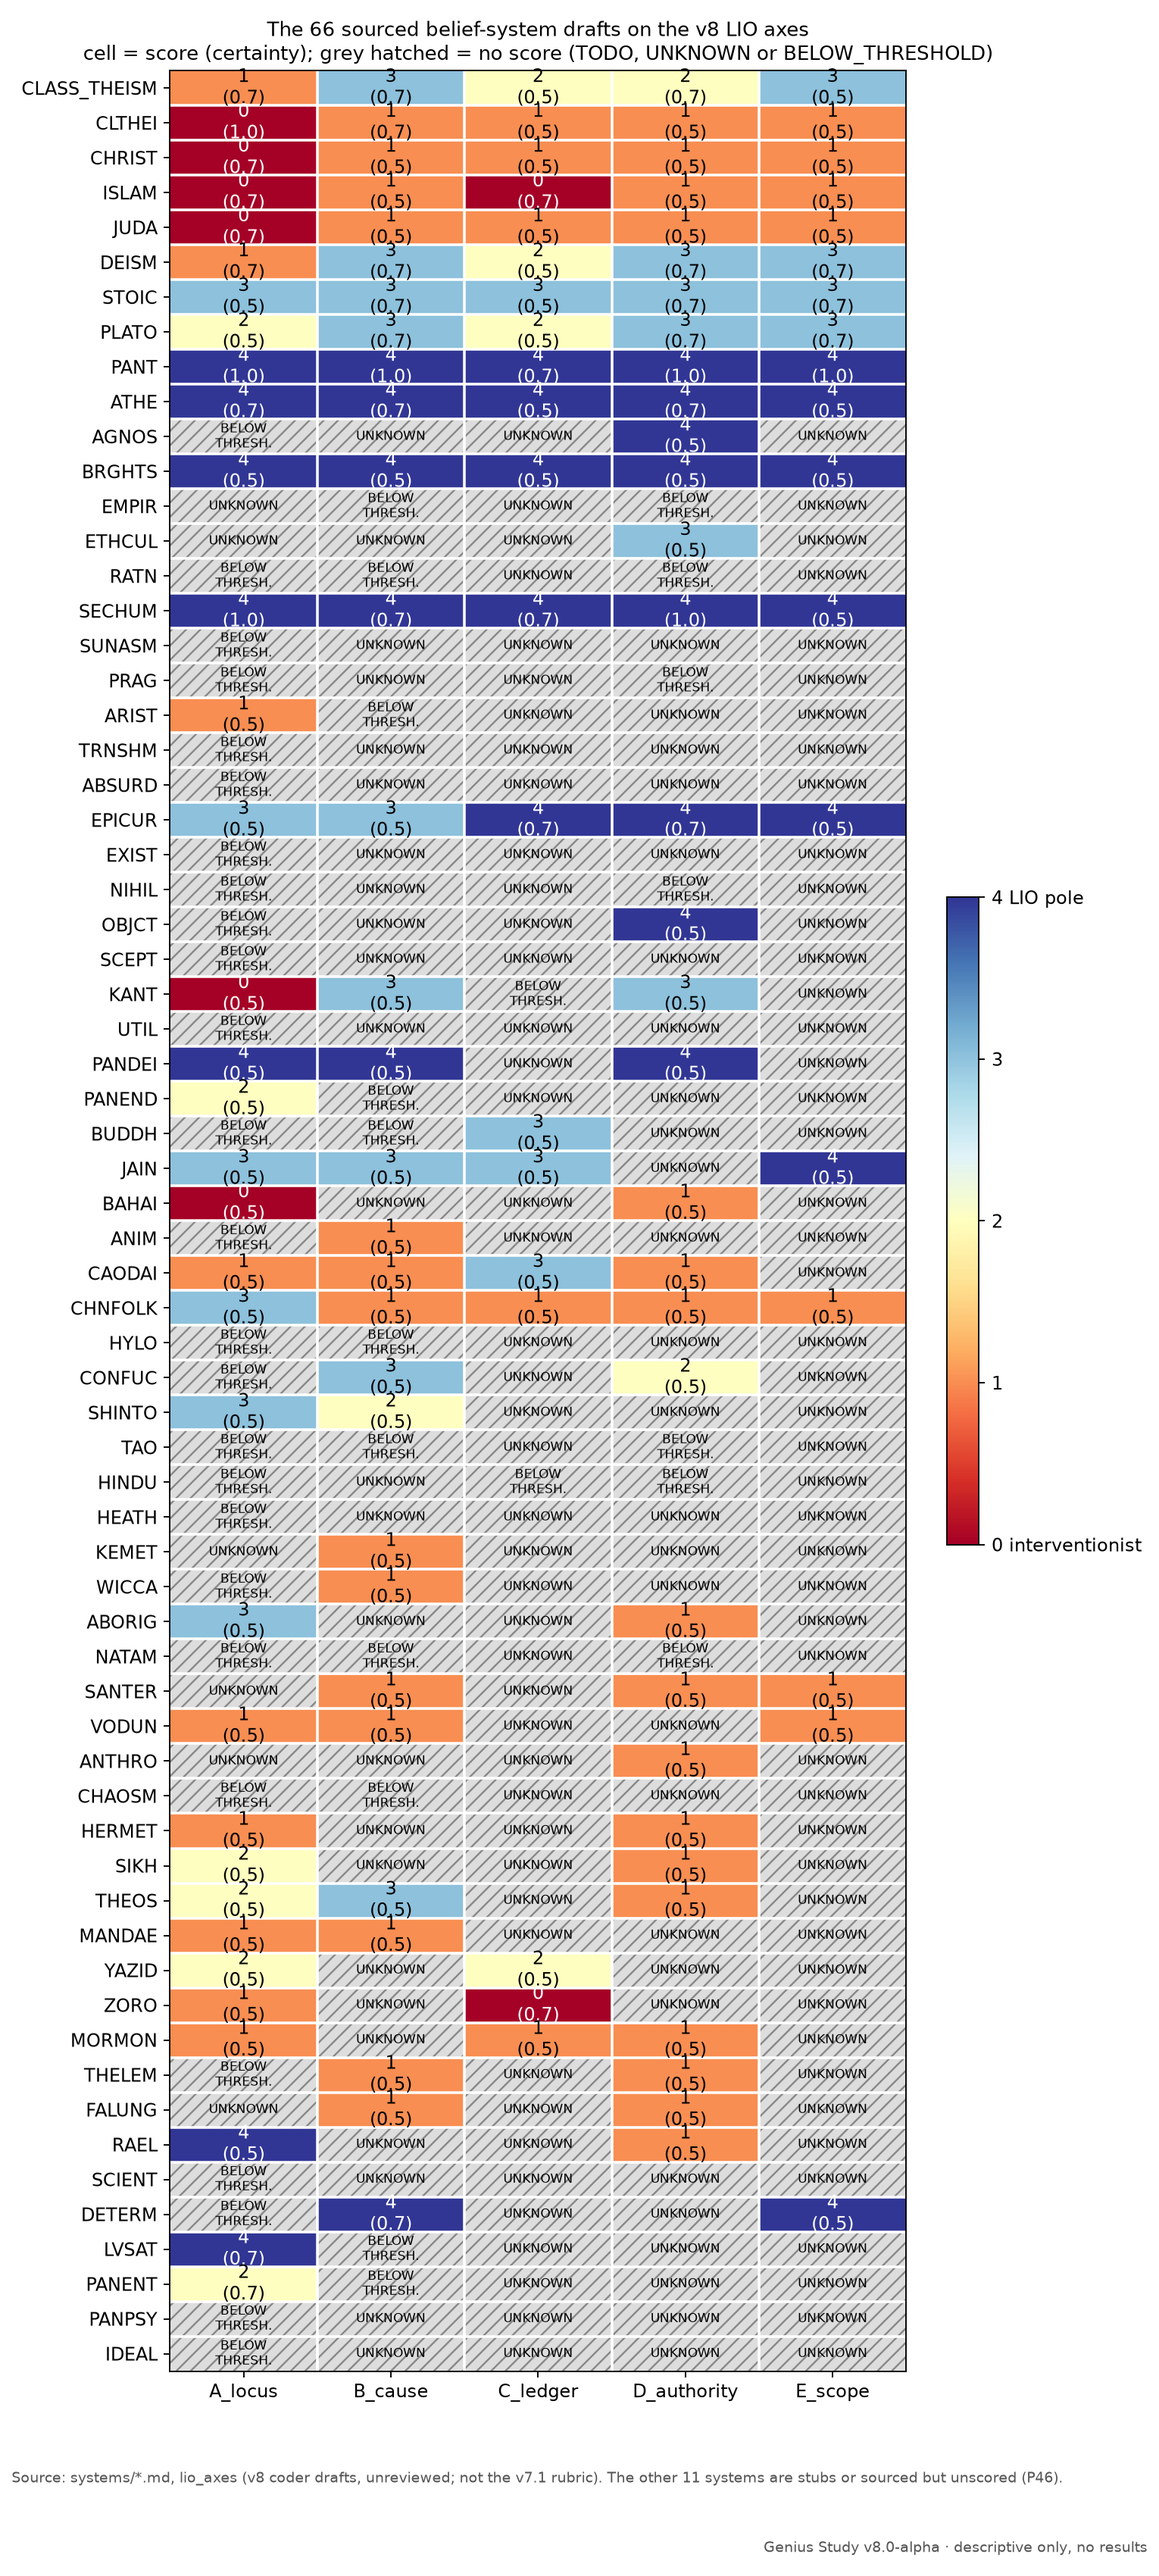
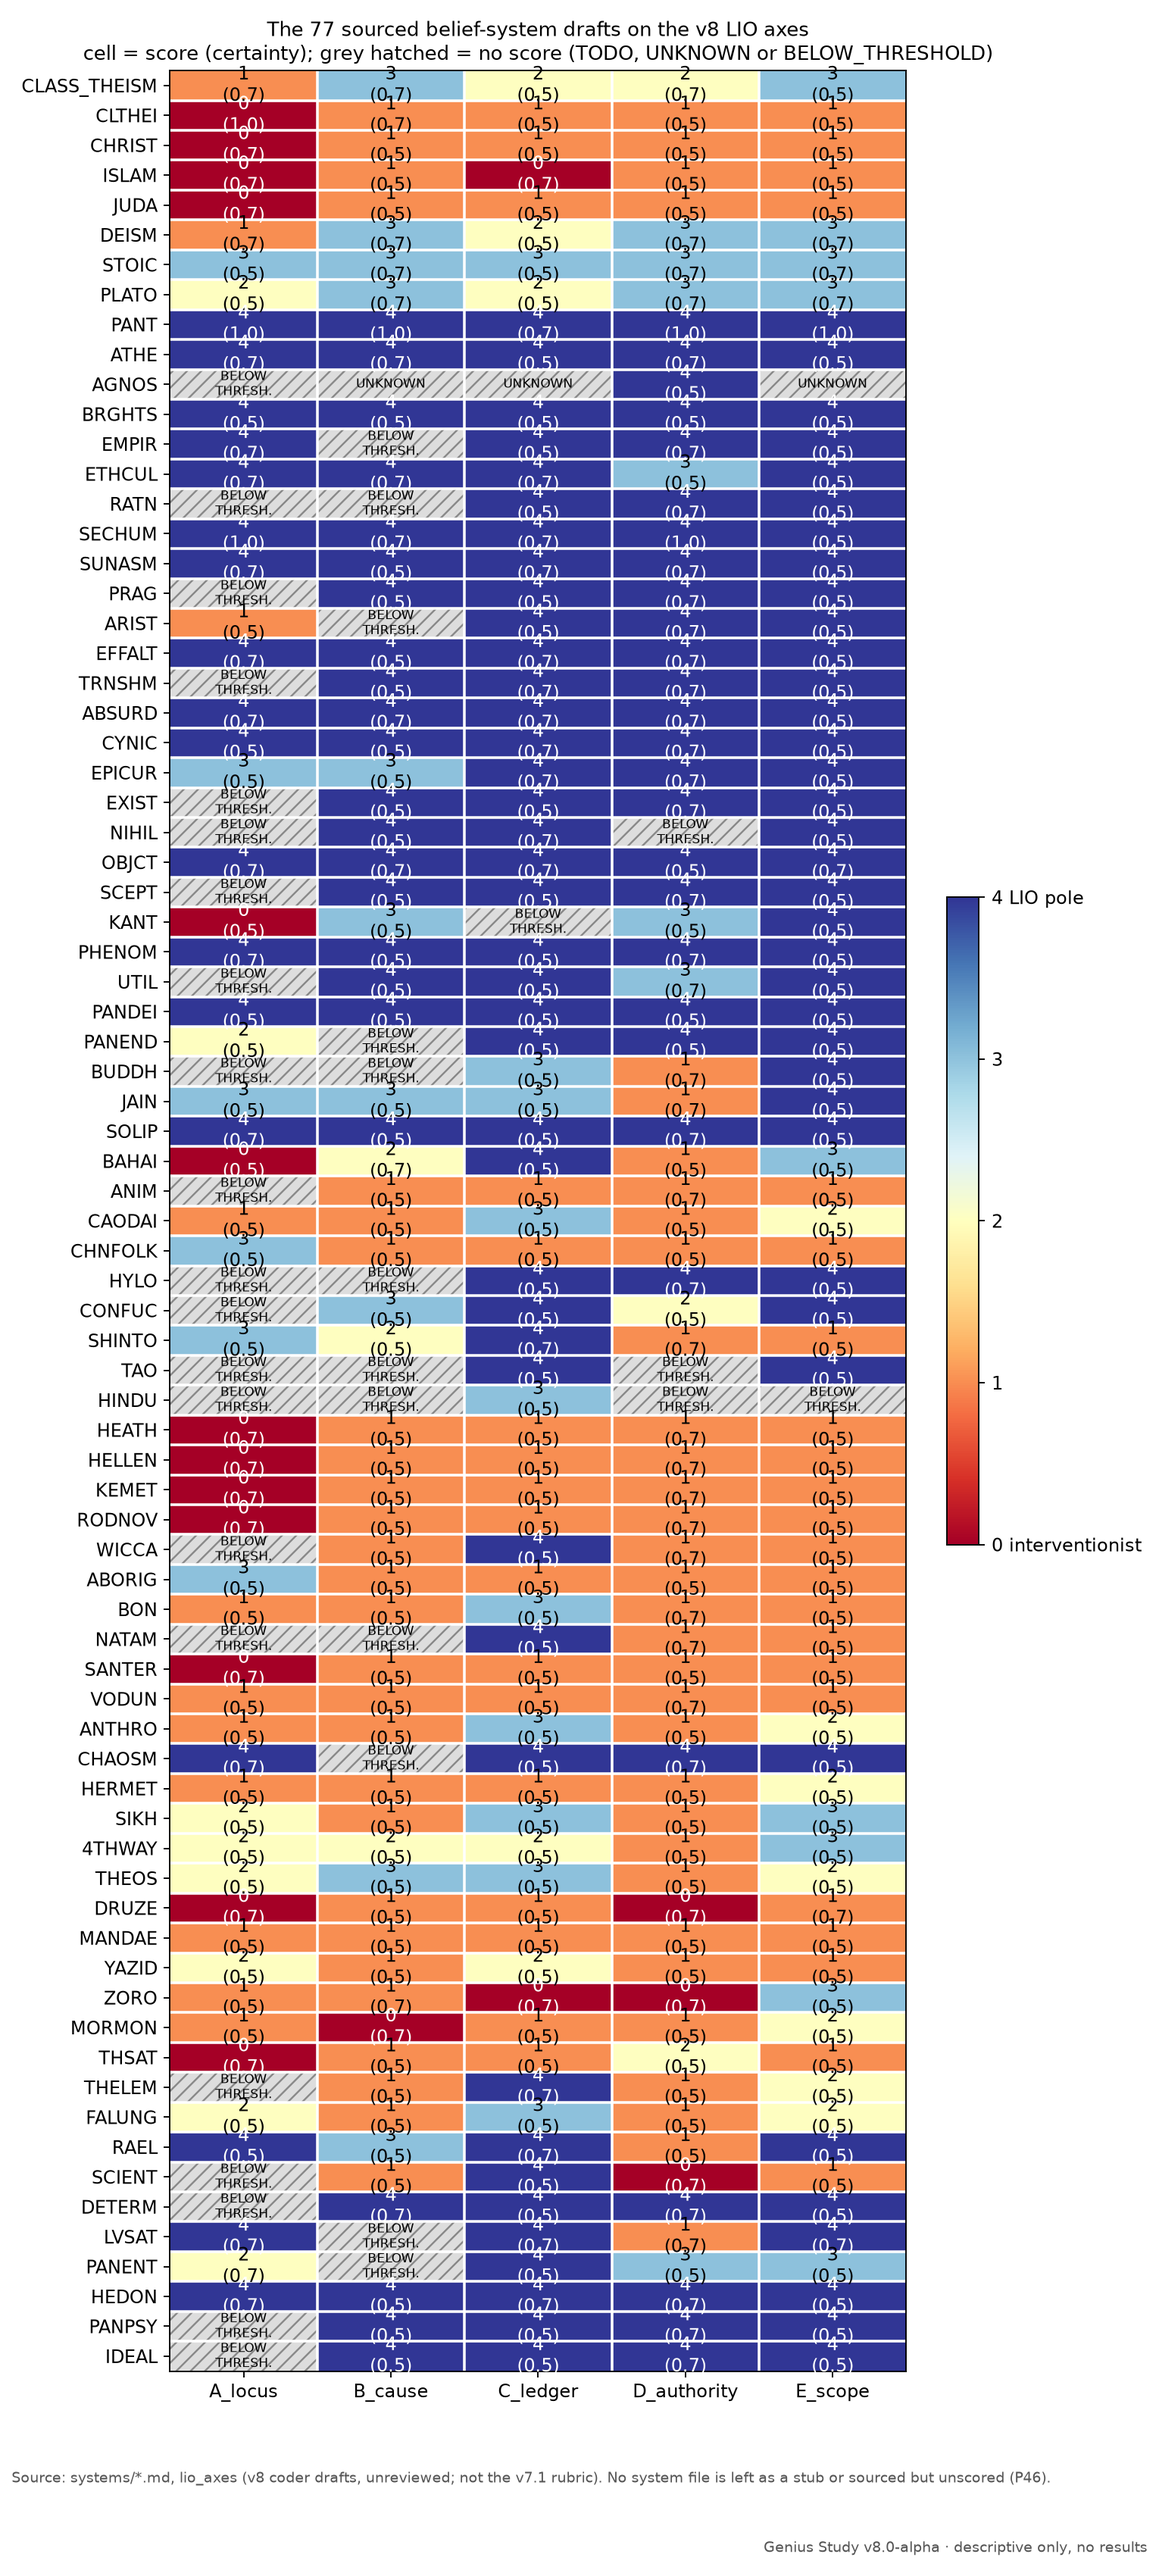
Refresh systems charts and README counts from current records (#3)
People charts were rebuilt and still show 88 plotted and 140 not scorable, with 0 label overlaps. Systems charts now follow the filled records: 77 sourced, 0 unscored, 0 stubs. 4THWAY is on the axes chart, and the overlay canvas is taller so crowded labels do not collide.

diff --git a/scripts/make_figures.py b/scripts/make_figures.py
@@ -40,7 +40,7 @@ SOURCED_SYSTEMS = ["CLASS_THEISM", "CLTHEI", "CHRIST", "ISLAM", "JUDA", "DEISM",
                    "BAHAI", "ANIM", "CAODAI", "CHNFOLK", "HYLO", "CONFUC",
                    "SHINTO", "TAO", "HINDU", "HEATH", "HELLEN", "KEMET",
                    "RODNOV", "WICCA", "ABORIG", "BON", "NATAM", "SANTER",
-                   "VODUN", "ANTHRO", "CHAOSM", "HERMET", "SIKH",
+                   "VODUN", "ANTHRO", "CHAOSM", "HERMET", "SIKH", "4THWAY",
                    "THEOS", "DRUZE", "MANDAE", "YAZID", "ZORO", "MORMON",
                    "THSAT", "THELEM", "FALUNG", "RAEL", "SCIENT",
                    "DETERM", "LVSAT", "PANENT", "HEDON", "PANPSY", "IDEAL"]
@@ -376,8 +376,10 @@ def fig_systems_axes(out):
     cb.ax.set_yticklabels(["0 interventionist", "1", "2", "3", "4 LIO pole"])
     ax.set_title(f"The {len(labels)} sourced belief-system drafts on the v8 LIO axes\n"
                  "cell = score (certainty); grey hatched = no score (TODO, UNKNOWN or BELOW_THRESHOLD)", fontsize=11)
-    footer(fig, "Source: systems/*.md, lio_axes (v8 coder drafts, unreviewed; not the v7.1 rubric). "
-             f"The other {sum(1 for f in os.listdir(os.path.join(REPO, 'systems')) if f.endswith('.md') and f != 'README.md') - len(labels)} systems are stubs or sourced but unscored (P46).")
+    n_other = sum(1 for f in os.listdir(os.path.join(REPO, "systems")) if f.endswith(".md") and f != "README.md") - len(labels)
+    other = (f" The other {n_other} systems are stubs or sourced but unscored (P46)." if n_other else
+             " No system file is left as a stub or sourced but unscored (P46).")
+    footer(fig, "Source: systems/*.md, lio_axes (v8 coder drafts, unreviewed; not the v7.1 rubric)." + other)
     fig.tight_layout(rect=(0, 0.06, 1, 1))
     save(fig, out, "systems_axes.png")
 
@@ -617,7 +619,9 @@ def fig_people_systems_overlay(out):
     items = [{"B": p["B"], "A": p["A"], "kind": "person", "faded": min(p["cA"], p["cB"]) < 0.7, "hollow": p["hollow"],
               "label": short_label(p["name"]) + ("*" if p["name"] in P43_PEOPLE else "")}
              for p in pts]
-    fig = plt.figure(figsize=(22, 15.5))
+    # Taller than the systems-only chart: the A4/B4 cell now holds 14 systems plus 13 people,
+    # and the shorter canvas made fit_cell fall through to a size that overlaps (Schrödinger).
+    fig = plt.figure(figsize=(22, 20))
     ax, left, bot, box = _layout(fig)
     _draw_cells(ax, items + grid)
     _draw_strips(left, bot, a_only, b_only)

diff --git a/scripts/progress_status.py b/scripts/progress_status.py
@@ -45,7 +45,7 @@ AUDITS = (
 NEXT_STEPS = (
     "Deepening of all 228 coded person files is done; P47–P50 darkness/hollow cues are applied; "
     "charts refreshed (88 plotted, 140 not scorable). "
-    "Systems pass complete (66 sourced, 10 sourced but unscored, 1 stub). "
+    "Systems pass complete (77 sourced, 0 sourced but unscored, 0 stubs). "
     "Roster frozen — no new people. "
     "Open for Jason (not blocking): Augustine mid_basin under P4; Linnaeus span end 1758 (RQ-Z5-N1). "
     "Revised rubric has not started. "
@@ -87,6 +87,7 @@ def table():
     # P46(a): sourced only with at least one value or BELOW_THRESHOLD; all-UNKNOWN = "sourced, unscored"
     unscored = sum(1 for d in past_stub if all((n or {}).get("value") == "UNKNOWN" for n in d["lio_axes"].values()))
     sourced = len(past_stub) - unscored
+    stubs = len(systems) - len(past_stub)
     settled, n_dec = decisions()
     tag = latest_tag()
     other = len(roster) - st["core"] - st["provisional"] - st["review"]
@@ -94,7 +95,7 @@ def table():
         ("Roster people", f"{len(roster):,}: {st['core']} core, {st['provisional']} provisional, {st['review']} review"
                           + (f", {other} new names still need a status" if other else "")),
         ("People coded (of core)", f"{coded} / {st['core']} (draft, unreviewed)"),
-        ("Belief systems sourced", f"{sourced} / {len(systems)} (P46; plus {unscored} sourced, unscored; the rest are stubs)"),
+        ("Belief systems sourced", f"{sourced} / {len(systems)} (P46; plus {unscored} sourced, unscored; {stubs} stubs)"),
         ("Decisions settled", f"{settled} / {n_dec}"),
         ("Audits", AUDITS),
         ("Latest tag", tag + (" (prerelease)" if re.search(r"alpha|beta|rc", tag) else "")),

diff --git a/README.md b/README.md
@@ -23,11 +23,11 @@ Most talk about genius and belief leans on anecdotes or summary labels. Here the
 |---|---|
 | Roster people | 1,380: 441 core, 33 provisional, 17 review, 889 new names still need a status |
 | People coded (of core) | 215 / 441 (draft, unreviewed) |
-| Belief systems sourced | 66 / 77 (P46; plus 10 sourced, unscored; the rest are stubs) |
+| Belief systems sourced | 77 / 77 (P46; plus 0 sourced, unscored; 0 stubs) |
 | Decisions settled | 65 / 65 |
 | Audits | Early work: 9 blind lens runs on four claim packets — see [reports/audit_2026-10-02.md](reports/audit_2026-10-02.md). Stage 3 person batches and belief-system batches S1–S12 were each blind-audited with fixes applied. Rulings live in [docs/OPEN_DECISIONS.md](docs/OPEN_DECISIONS.md); batch-by-batch history is in [CHANGELOG.md](CHANGELOG.md). |
 | Latest tag | `v8.0-alpha` (prerelease) |
-| Next steps | Deepening of all 228 coded person files is done; P47–P50 darkness/hollow cues are applied; charts refreshed (88 plotted, 140 not scorable). Systems pass complete (66 sourced, 10 sourced but unscored, 1 stub). Roster frozen — no new people. Open for Jason (not blocking): Augustine mid_basin under P4; Linnaeus span end 1758 (RQ-Z5-N1). Revised rubric has not started. Details: [docs/OPEN_DECISIONS.md](docs/OPEN_DECISIONS.md), [CHANGELOG.md](CHANGELOG.md). |
+| Next steps | Deepening of all 228 coded person files is done; P47–P50 darkness/hollow cues are applied; charts refreshed (88 plotted, 140 not scorable). Systems pass complete (77 sourced, 0 sourced but unscored, 0 stubs). Roster frozen — no new people. Open for Jason (not blocking): Augustine mid_basin under P4; Linnaeus span end 1758 (RQ-Z5-N1). Revised rubric has not started. Details: [docs/OPEN_DECISIONS.md](docs/OPEN_DECISIONS.md), [CHANGELOG.md](CHANGELOG.md). |
 
 <!-- END GENERATED: progress -->
 
@@ -230,9 +230,9 @@ The 140 coded people below are not on the chart because at least one axis has no
 
 *The same chart with the hand-picked people added (circles). These are drafts, not a sample and not a result.*
 
-![The 66 sourced belief-system drafts on the LIO axes](figures/systems_axes.png)
+![The 77 sourced belief-system drafts on the LIO axes](figures/systems_axes.png)
 
-*The 66 sourced belief-system drafts (P46) on the five LIO axes, showing each score with its certainty. These are unreviewed coder drafts, not the v7.1 rubric, and the other 11 systems are a stub (1, 4THWAY) or sourced but unscored (10).*
+*The 77 sourced belief-system drafts (P46) on the five LIO axes, showing each score with its certainty. These are unreviewed coder drafts, not the v7.1 rubric. No system file is left as a stub or sourced but unscored.*
 
 ## Method in short
 
